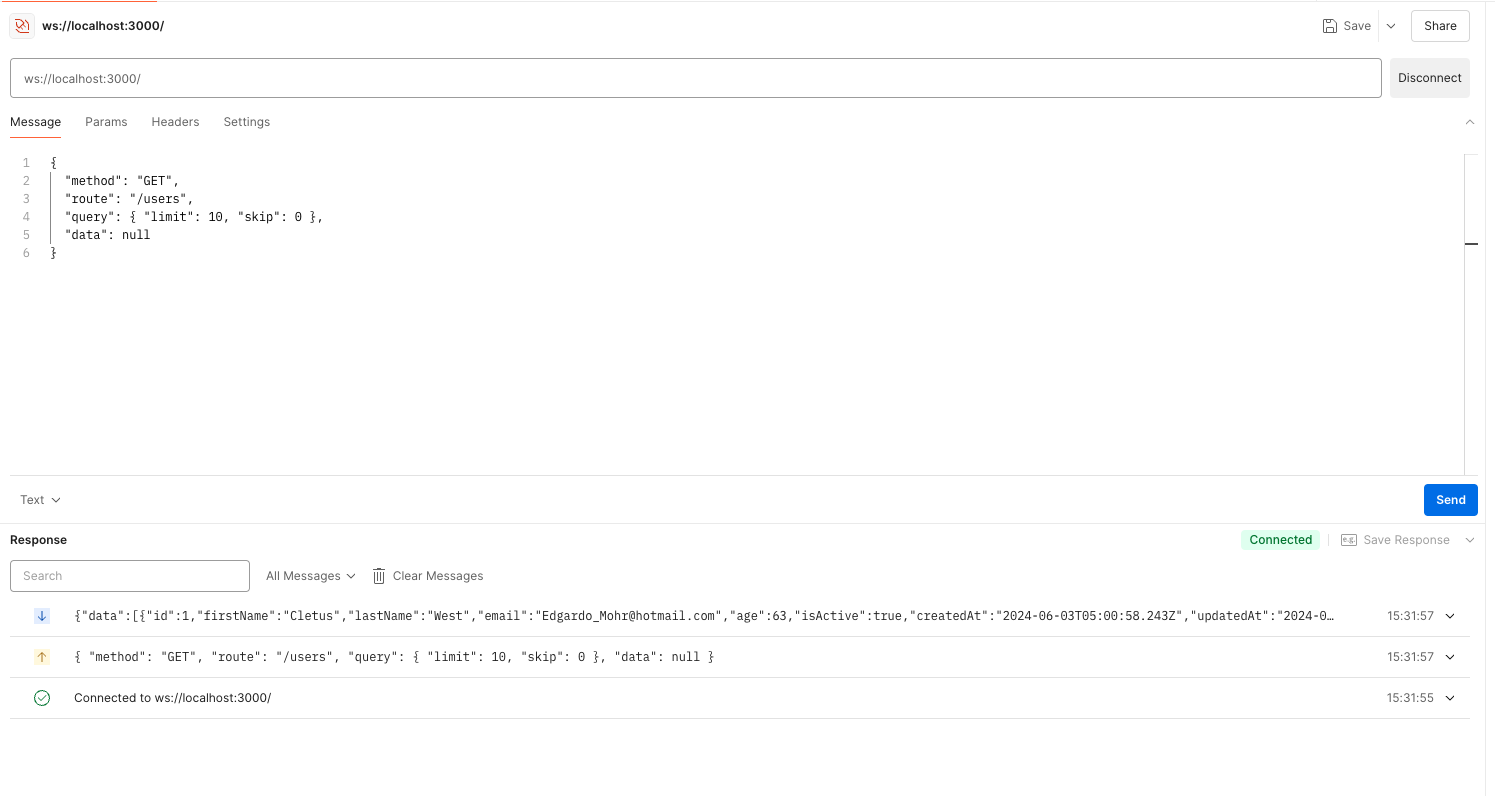
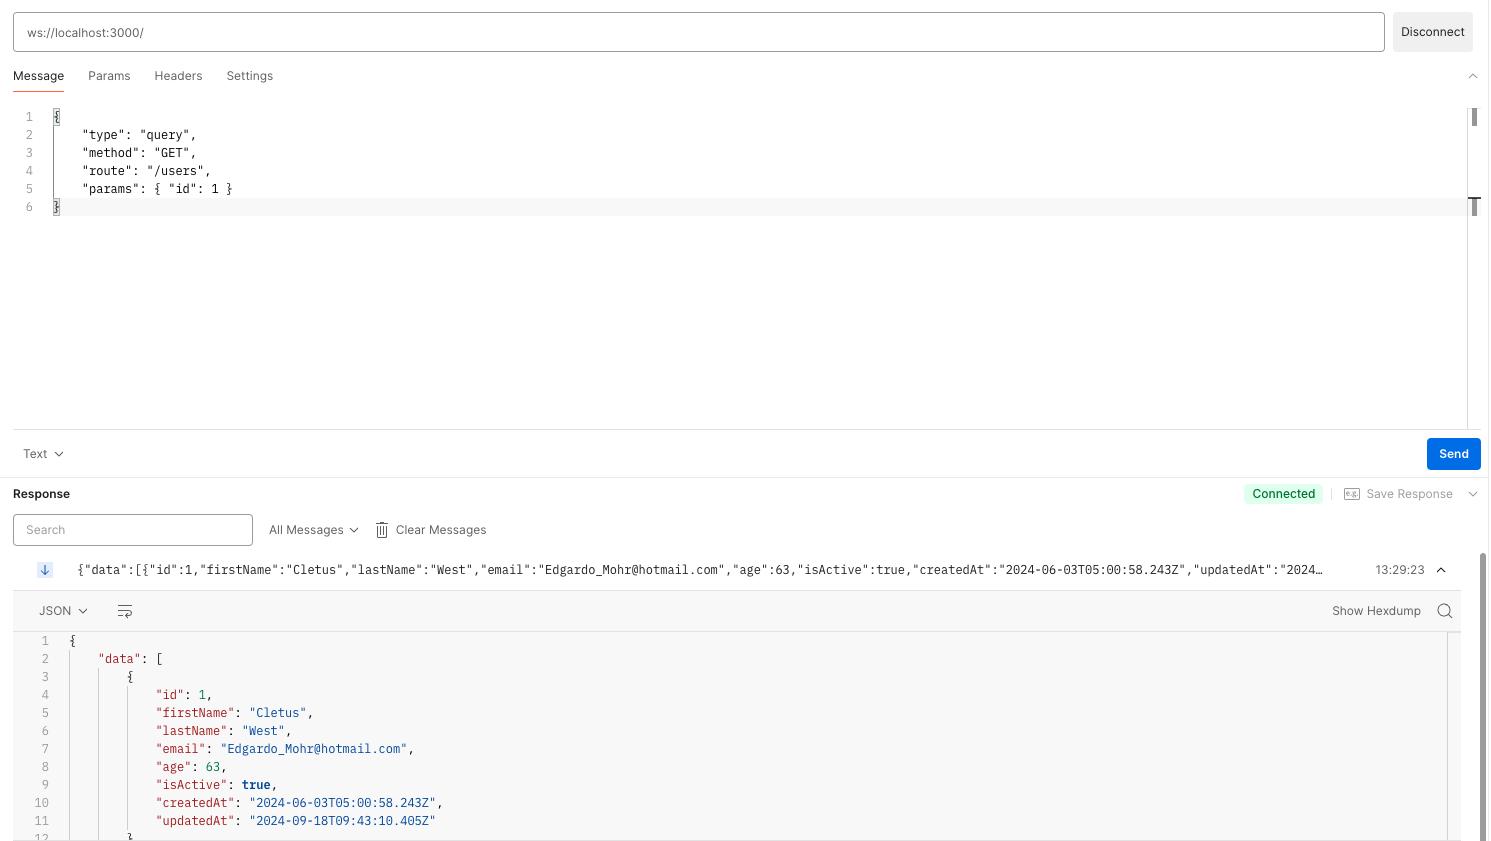
docs(WEBSOCKET.md): update WebSocket message format and add validation refactor(lib): streamline WebSocket handling and remove unused code feat(lib/router/websocketHandler.js): enhance message handling with validation style(docs/WEBSOCKET.md): switch code block to `javascript` for clarity chore: upd

diff --git a/lib/router/websocketHandler.js b/lib/router/websocketHandler.js
@@ -1,50 +1,100 @@
-/**
- * WebSocket handler configuration
- */
-export const websocketHandler = (ws) => ({
-  /**
-   * Handles new WebSocket connections
-   */
-  open() {
+import { t } from 'elysia';
+
+export const websocketHandler = {
+  body: t.Object({
+    type: t.String(),
+    method: t.Optional(t.String()),
+    route: t.Optional(t.String()),
+    data: t.Optional(t.Any()),
+    params: t.Optional(t.Any()),
+    query: t.Optional(t.Any()),
+  }),
+
+  // Handle connection opened
+  open(ws) {
     cambusa.log.debug('WebSocket connected');
-    cambusa.wsClients.add(ws);
-    ws.subscriptions = new Set();
   },
 
-  /**
-   * Handles incoming WebSocket messages
-   */
-  message(message) {
+  // Handle incoming messages
+  message(ws, message) {
     handleWebSocketMessage(ws, message);
   },
 
-  /**
-   * Handles WebSocket disconnections
-   */
-  close() {
+  // Handle connection closed
+  close(ws) {
     cambusa.log.debug('WebSocket disconnected');
-    cambusa.wsClients.delete(ws);
   },
-});
+};
 
 async function handleWebSocketMessage(ws, message) {
   try {
-    const parsedMessage = JSON.parse(message);
-
-    if (parsedMessage.type === 'subscribe') {
-      handleSubscription(ws, parsedMessage);
-    } else {
-      // Handle other message types if needed
-      cambusa.log.debug('Received message:', parsedMessage);
+    const { method, route, data, params, query } = message;
+    // Validate the message format
+    if (!method || !route) {
+      throw new Error('Invalid message format');
     }
+    // Mock headers object
+    const headers = {};
+    // Convert WebSocket message to an HTTP-like request
+    const req = {
+      method,
+      url: route,
+      params: params || {},
+      query: query || {},
+      body: data,
+      error: (status, message) => {
+        throw new Error(`${status}: ${message}`);
+      },
+      set: {
+        headers: headers,
+      },
+    };
+    // Find the corresponding route
+    const routeHandler = cambusa.app.routes.find(
+      (r) => r.method === method.toUpperCase() && r.path === route
+    );
+    if (!routeHandler) {
+      throw new Error('Route not found');
+    }
+    // Execute the route handler
+    const result = await routeHandler.handler(req);
+    // Send the result back through the WebSocket, including any set headers
+    ws.send({
+      data: result,
+      headers: headers,
+    });
   } catch (error) {
-    cambusa.log.error('Error handling WebSocket message:', error);
+    ws.send({
+      error: error.message,
+    });
   }
 }
 
-function handleSubscription(ws, message) {
-  const { entityName } = message;
-  ws.subscriptions.add(entityName);
-  ws.send(JSON.stringify({ type: 'subscribed', entityName }));
-  cambusa.log.debug(`Client subscribed to ${entityName}`);
-}
+// async function handleWebSocketMessage(ws, message) {
+//   console.log(JSON.parse(message));
+//   try {
+//     if (message.type === 'subscribe') {
+//       handleSubscription(ws, message);
+//     } else if (message.type === 'unsubscribe') {
+//       handleUnsubscription(ws, message);
+//     } else {
+//       cambusa.log.debug('Received message:', message);
+//     }
+//   } catch (error) {
+//     cambusa.log.error('Error handling WebSocket message:', error);
+//   }
+// }
+
+// function handleSubscription(ws, message) {
+//   const { model } = message;
+//   cambusa.sockets.join(ws, model);
+//   ws.send(JSON.stringify({ type: 'subscribed', model }));
+//   cambusa.log.debug(`Client subscribed to ${model}`);
+// }
+
+// function handleUnsubscription(ws, message) {
+//   const { model } = message;
+//   cambusa.sockets.leave(ws, model);
+//   ws.send(JSON.stringify({ type: 'unsubscribed', model }));
+//   cambusa.log.debug(`Client unsubscribed from ${model}`);
+// }

diff --git a/lib/cambusa.js b/lib/cambusa.js
@@ -9,7 +9,6 @@
 import 'dotenv/config';
 import { Elysia } from 'elysia';
 import { createRequire } from 'module';
-import { WebSocket } from 'ws';
 
 import loadMiddlewares from '@lib/middlewaresLoader';
 import blueprints from '@lib/router/blueprints';
@@ -36,7 +35,6 @@ class Cambusa {
   schemas = [];
 
   #hooks = {};
-  #wsClients = new Set();
 
   /**
    * Constructor for the Cambusa class
@@ -147,7 +145,7 @@ class Cambusa {
 
     if (sockets) {
       const { websocketHandler } = await import('./router/websocketHandler.js');
-      this.app.ws('/', (ws) => websocketHandler(ws));
+      this.app.ws('/', websocketHandler);
       this.log.info('🔌 WebSocket support enabled.');
     }
 
@@ -192,40 +190,6 @@ class Cambusa {
         }
       }
     }
-  }
-
-  /**
-   * Registers a WebSocket client
-   * @param {WebSocket} ws - The WebSocket instance
-   */
-  registerWsClient(ws) {
-    this.#wsClients.add(ws);
-  }
-
-  /**
-   * Unregisters a WebSocket client
-   * @param {WebSocket} ws - The WebSocket instance
-   */
-  unregisterWsClient(ws) {
-    this.#wsClients.delete(ws);
-  }
-
-  broadcastEntityUpdate(message) {
-    cambusa.log.debug('Cambusa: Broadcasting entity update:', message);
-    this.broadcastWebSocketMessage(message);
-  }
-
-  /**
-   * Broadcasts a WebSocket message to all connected clients
-   * @param {Object} message - The message to broadcast
-   */
-  broadcastWebSocketMessage(message) {
-    cambusa.log.debug('Cambusa: Broadcasting WebSocket message:', message);
-    this.#wsClients.forEach((client) => {
-      if (client.readyState === WebSocket.OPEN) {
-        client.send(JSON.stringify(message));
-      }
-    });
   }
 
   /**

diff --git a/lib/datastore/EntitySubscriber.js b/lib/datastore/EntitySubscriber.js
@@ -2,6 +2,7 @@ export class EntitySubscriber {
   afterInsert(event) {
     const { entity, metadata } = event;
     cambusa.log.silly(entity, `New entity ${metadata.name} inserted:`);
+    // cambusa.broadcastEntityUpdate('create', metadata.name, entity);
   }
 
   afterUpdate(event) {
@@ -10,10 +11,15 @@ export class EntitySubscriber {
       entity,
       `Entity ${metadata.name} updated: ${entity.constructor.name}`
     );
+    // cambusa.broadcastEntityUpdate('update', metadata.name, entity);
   }
 
   afterRemove(event) {
-    const { entityId, metadata } = event;
+    const { entityId, entity, metadata } = event;
     cambusa.log.debug(`Entity ${metadata.name} removed: ${entityId}`);
+    // cambusa.broadcastEntityUpdate('delete', metadata.name, {
+    //   id: entityId,
+    //   ...entity,
+    // });
   }
 }

diff --git a/docs/WEBSOCKET.md b/docs/WEBSOCKET.md
@@ -36,19 +36,41 @@ To use WebSockets in your Cambusa application:
 
 1. **Enable WebSocket support** in your server configuration.
 2. Send messages from the client **in the following format**:
-```json
+```javascript
 {
+  "type": "query",
   "method": "GET",
-  "route": "/api/messages",
-  "data": {
-    "message": "Hello, WebSocket!"
-  }
+  "route": "/users",
+  "query": { "limit": 10, "offset": 0 }
 }
 ```
 3. Handle WebSocket messages in your existing route handlers. The WebSocket handler will convert the message to an HTTP-like request and execute the corresponding route handler.
 4. Send responses back to the client through the WebSocket connection.
 
 ![WebSocket example](./assets/websocket-example.png);
+
+## WebSocket Message Format and Validation
+
+Cambusa uses a specific message format for WebSocket communications and validates incoming messages to ensure they conform to the expected structure. This helps maintain consistency and security in your application's real-time communication.
+
+### Message Structure
+
+WebSocket messages in Cambusa should follow this general structure:
+
+### Field Descriptions
+
+- `type` (required): Specifies the type of message. Common types include "query", "subscribe", and "unsubscribe".
+- `method` (optional): For query-type messages, specifies the HTTP method (e.g., "GET", "POST", "PUT", "DELETE").
+- `route` (optional): The server route to be called, similar to HTTP endpoints.
+- `data` (optional): The payload of the message, typically used for POST or PUT operations.
+- `params` (optional): URL parameters, similar to those in REST API calls.
+- `query` (optional): Query string parameters.
+
+### Available Types
+
+- `query`: Send a query to the server.
+- `subscribe`: Subscribe to entity updates.
+- `unsubscribe`: Unsubscribe from entity updates.
 
 ### Subscribing to Entity Updates
 
@@ -73,3 +95,78 @@ Once subscribed, clients will receive messages for entity updates:
   "payload": { /* updated entity data */ }
 }
 ```
+
+## WebSocket Message Format and Validation
+
+Cambusa uses a specific message format for WebSocket communications and validates incoming messages to ensure they conform to the expected structure. This helps maintain consistency and security in your application's real-time communication.
+
+### Message Structure
+
+WebSocket messages in Cambusa should follow this general structure:
+
+```javascript
+{
+  type: String,
+  method: String (optional),
+  route: String (optional),
+  data: Any (optional),
+  params: Any (optional),
+  query: Any (optional)
+}
+```
+
+### Validation Schema
+
+Cambusa uses the following validation schema for WebSocket messages:
+
+```javascript
+body: t.Object({
+  type: t.String(),
+  method: t.Optional(t.String()),
+  route: t.Optional(t.String()),
+  data: t.Optional(t.Any()),
+  params: t.Optional(t.Any()),
+  query: t.Optional(t.Any()),
+})
+```
+
+### Field Descriptions
+
+- `type` (required): Specifies the type of message. Common types include "query", "subscribe", and "unsubscribe".
+- `method` (optional): For query-type messages, specifies the HTTP method (e.g., "GET", "POST", "PUT", "DELETE").
+- `route` (optional): The server route to be called, similar to HTTP endpoints.
+- `data` (optional): The payload of the message, typically used for POST or PUT operations.
+- `params` (optional): URL parameters, similar to those in REST API calls.
+- `query` (optional): Query string parameters.
+
+### Examples
+
+1. Querying data:
+```javascript
+{
+  "type": "query",
+  "method": "GET",
+  "route": "/users",
+  "query": { "limit": 10, "offset": 0 }
+}
+```
+
+2. Subscribing to entity updates:
+```javascript
+{
+  "type": "subscribe",
+  "entityName": "User"
+}
+```
+
+3. Updating data:
+```javascript
+{
+  "type": "query",
+  "method": "PUT",
+  "route": "/users/123",
+  "data": { "name": "John Doe", "email": "john@example.com" }
+}
+```
+
+By adhering to this message format and validation schema, you ensure that your WebSocket communications with Cambusa are consistent and properly structured, facilitating smooth real-time interactions in your application.
